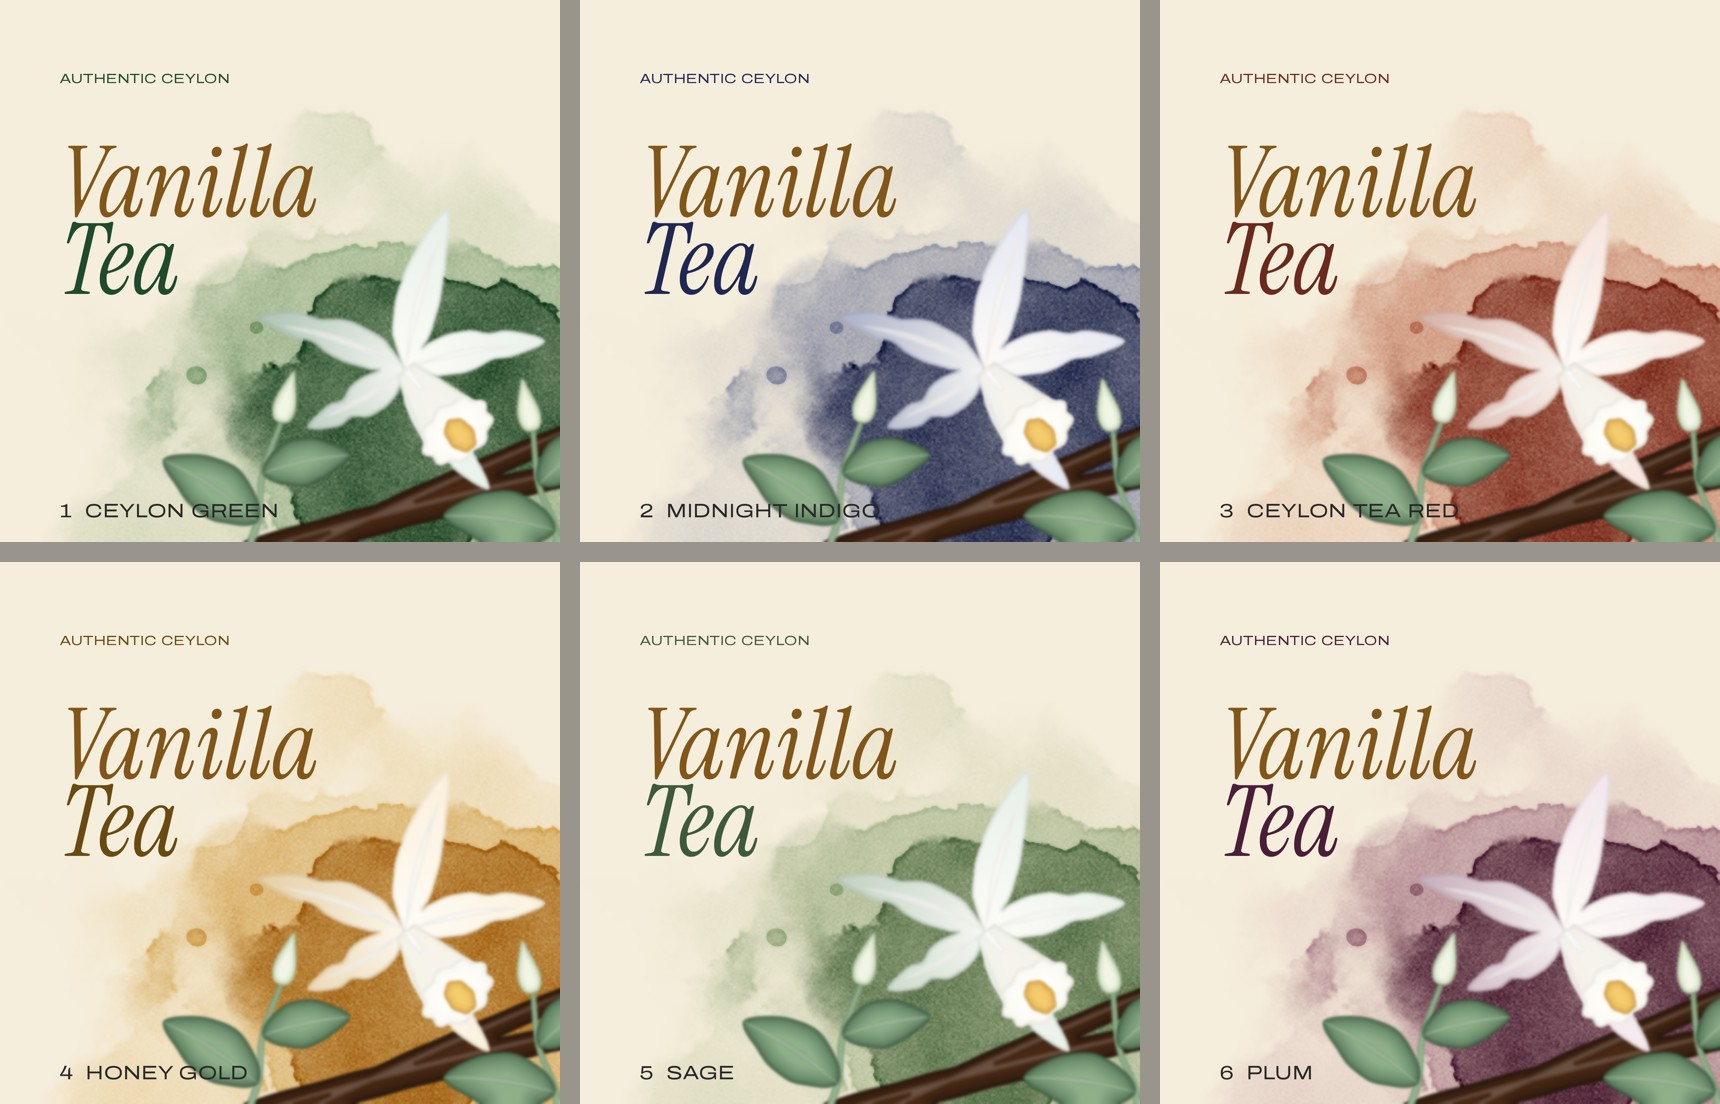
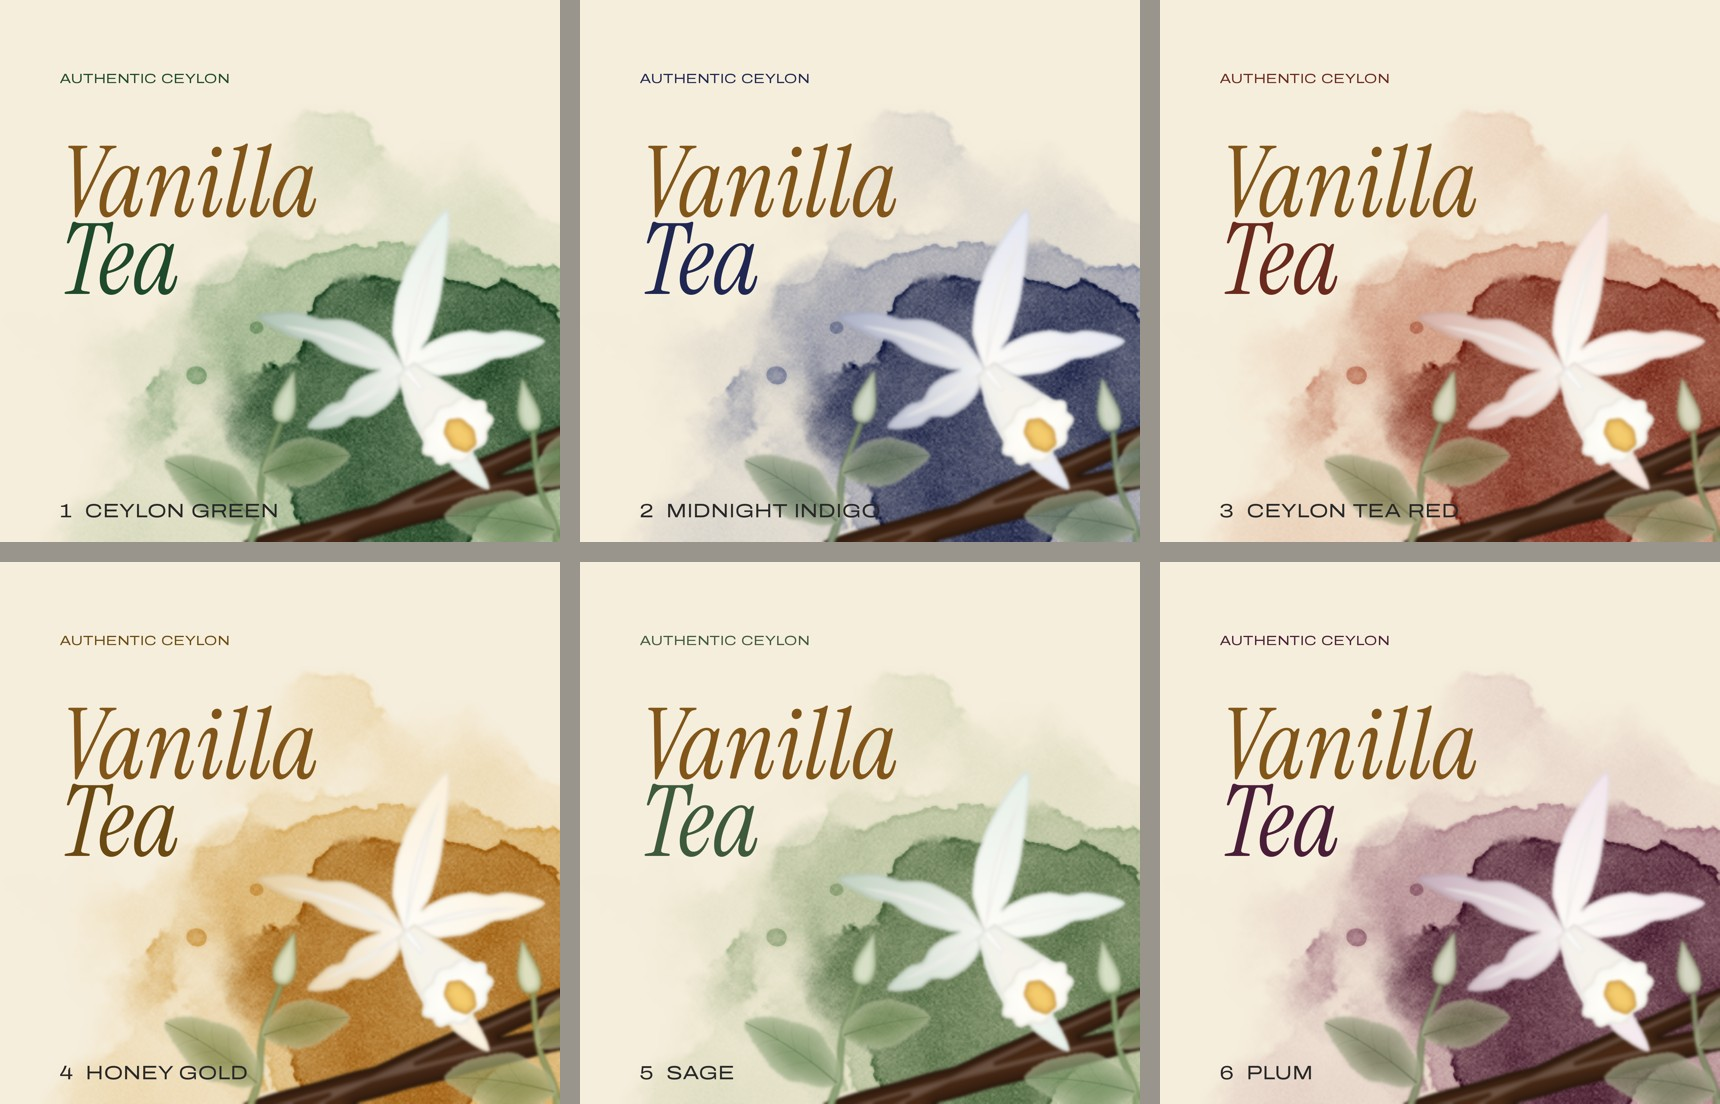
Tea carton: six colour options with softer leaves
Leaves now thin out to the margin like the petals, with no dark outline, an uneven second glaze and a softly serrated edge.

Claude-Session: https://claude.ai/code/session_01Psd6wLDi15Gf4F1fXEFmxS

diff --git a/vanilla-shop/studies/tea/watercolour/carton/split2.py b/vanilla-shop/studies/tea/watercolour/carton/split2.py
@@ -25,13 +25,41 @@ class WC(Canvas):
         if getattr(s,'crisp',False): blur=min(blur,getattr(s,'cap',0.08)); halo=0.0
         if wash is None: wash=() if getattr(s,'nowash',False) else (mix(edge,'#000000',0.18),0.32,0.32)
         super().add(polys,core,edge,blur,depth,alpha,glow,centre,R,halo,wash)
+def serrate(poly,w,seed,amt=1.0):
+    """a tea leaf's edge: fine forward-leaning teeth and a slightly wavy margin, not a perfect lens"""
+    P=np.asarray(poly,float); n=len(P); rng=np.random.default_rng(seed)
+    d=np.roll(P,-1,0)-np.roll(P,1,0); d/=np.linalg.norm(d,axis=1,keepdims=True)+1e-9; nrm=np.stack([d[:,1],-d[:,0]],1)
+    t=np.arange(n)/n; teeth=(np.mod(t*n/3.0,1.0)**2)*0.05*w
+    wave=np.convolve(rng.normal(0,1,n+8),np.ones(9)/9,'valid')[:n]*0.06*w
+    taper=np.minimum(1,np.minimum(t,1-t)*8)
+    return P+nrm*((teeth+wave)*taper*amt)[:,None]
 def flush(cv,p,base,ang,s,blur=0.7,alpha=1.0):
     a=math.radians(ang); P=lambda d,o=0:(base[0]+math.cos(a)*d*s-math.sin(a)*o*s, base[1]+math.sin(a)*d*s+math.cos(a)*o*s)
     tip=P(26); m1=P(9,0.8); m2=P(17,-0.6)
     cv.add([stem([base,m1,m2,tip],0.6*s)],mix(p['tstem'],'#FFFFFF',0.2),p['tstem'],blur*0.8,alpha=alpha)
     lv=[(m1,ang-62,19*s,5.6*s,-0.3),(m2,ang+52,15*s,4.6*s,0.28)]
-    cv.add([leaf(*q) for q in lv],p['tea_core'],p['tea_edge'],blur,alpha=alpha,glow=1.1)
-    sheen(cv,[leaf(*q,spine=True) for q in lv],0.38*s,mix(p['tea_core'],'#FFFFFF',0.4),p['tea_core'],blur,p.get('sheen',0.5)*alpha)
+    if p.get('veins'):
+        # painted like a real leaf: a flat wash with a darker drying edge, the tip a little warmer, a midrib and side veins
+        for i,q in enumerate(lv):
+            core=mix(p['tea_core'],p.get('tea_tip',p['tea_core']),0.35*i)
+            poly=serrate(leaf(*q),q[3],i)
+            # like the petals: pigment pools toward the midrib and thins out to the margin, no dark drying line
+            pap=p.get('paper','#F6EEDC')
+            cv.add([poly],core,mix(core,pap,0.55),blur*1.3,alpha=0.72*alpha,glow=1.2,wash=())
+            # a second, smaller glaze pooled on one side of the midrib: the pigment never sits evenly
+            q2=(q[0],q[1]+(4 if i else -4),q[2]*0.72,q[3]*0.55,q[4])
+            cv.add([serrate(leaf(*q2),q2[3],i+7,0.5)],mix(core,p['tea_edge'],0.3),mix(core,pap,0.4),blur*1.8,alpha=0.22*alpha,wash=())
+            sp=leaf(*q,spine=True); vc=mix(p['tea_edge'],p['tea_core'],0.45)
+            cv.add([draw.ribbon(sp[1:-2],lambda t,w=0.16*s:w*(1-0.6*t)+0.02)],vc,vc,0.08,alpha=0.4*alpha,wash=())
+            d=np.gradient(sp,axis=0); d/=np.linalg.norm(d,axis=1,keepdims=True)+1e-9; nrm=np.stack([-d[:,1],d[:,0]],1)
+            for k in (0.3,0.48,0.66):
+                j=int(k*(len(sp)-1)); L=q[3]*0.8*(1-k*0.6)
+                for sg in (1,-1):
+                    a0=sp[j]; a1=sp[j]+d[j]*L*0.9+nrm[j]*sg*L
+                    cv.add([draw.ribbon(draw.cr([a0,(a0+a1)/2+d[j]*0.4,a1],8),lambda t,w=0.07*s:w*(1-t)+0.015)],vc,vc,0.08,alpha=0.22*alpha,wash=())
+    else:
+        cv.add([leaf(*q) for q in lv],p['tea_core'],p['tea_edge'],blur,alpha=alpha,glow=1.1)
+        sheen(cv,[leaf(*q,spine=True) for q in lv],0.38*s,mix(p['tea_core'],'#FFFFFF',0.4),p['tea_core'],blur,p.get('sheen',0.5)*alpha)
     cv.add([bud(tip,ang-6,9*s,2.0*s,0.12)],p['tbud_core'],p['tbud_edge'],blur*0.8,alpha=alpha,glow=1.3)
 def pod_pair(cv,p,base,ang,L,w):
     """the range's pods: always two cured pods, crossing, the front one longer"""

diff --git a/vanilla-shop/studies/tea/watercolour/carton/palsheet.py b/vanilla-shop/studies/tea/watercolour/carton/palsheet.py
@@ -12,8 +12,11 @@ K=draw.K; B=3; PAPER=np.array([0xF6,0xEE,0xDC],np.float32)
 F='/home/user/PersonalEventPlanner305App/vanilla-shop/fonts/'
 f1=ImageFont.truetype(F+'instrument-serif-italic.ttf',int(16.5*K)); f2=ImageFont.truetype(F+'archivo-expanded-regular.ttf',int(2.2*K)); f3=ImageFont.truetype(F+'archivo-expanded-regular.ttf',int(3.2*K))
 def pal(ground,g1,g2,ink,leaf=('#8FB08A','#3E5E44'),tep='#E4EFE8'):
-    return dict(tep_core='#FFFDF8',lip_core='#FFFEF9',throat_core='#F3C75E',throat_edge='#D69B3A',pod_core='#4A2A16',pod_edge='#26150B',tbud_core='#F3F6E6',
-                ground=ground,tep_edge=tep,lip_edge='#F6F4EC',leaf_core=leaf[0],leaf_edge=leaf[1],tea_core=leaf[0],tea_edge=leaf[1],tbud_edge='#B5CBA6',tstem='#82A47C'),(g1,g2,ground),ink
+    # a natural tea-leaf green, tinted towards the palette so the leaves sit in the same light
+    lc=mix('#7C9663',ground,0.22); le=mix('#3E5530',ground,0.22); tip=mix('#9AA466',ground,0.2)
+    return dict(tep_core='#FFFDF8',lip_core='#FFFEF9',throat_core='#F3C75E',throat_edge='#D69B3A',pod_core='#4A2A16',pod_edge='#26150B',tbud_core=mix('#E4EBD2',ground,0.1),
+                ground=ground,tep_edge=tep,lip_edge='#F6F4EC',leaf_core=lc,leaf_edge=le,tea_core=lc,tea_edge=le,tea_tip=tip,veins=True,
+                tbud_edge=mix('#9DB083',ground,0.2),tstem=mix('#7E965E',ground,0.2)),(g1,g2,ground),ink
 OPTS=[('1  CEYLON GREEN',*pal('#2F5E3E','#D9E6D6','#9DBF9F','#1F4A2C')),          # brand tea deep green
       ('2  MIDNIGHT INDIGO',*pal('#2B3566','#DCDFEA','#9AA3C6','#1F2752',tep='#E2E5F2')),   # the Aura candle's blue
       ('3  CEYLON TEA RED',*pal('#8E3B2C','#F1DAD0','#D59A88','#6A2A1E',tep='#F6E2DA')),  # brewed black tea, extract red
@@ -33,7 +36,7 @@ for name,p,(g1,g2,g3),ink in OPTS:
     d.text((10*K,12*K),'AUTHENTIC CEYLON',font=f2,fill=ink)
     d.text((10*K,20*K),'Vanilla',font=f1,fill=(130,86,26)); d.text((10*K,33*K),'Tea',font=f1,fill=ink)
     d.text((10*K,84*K),name,font=f3,fill=(40,40,40))
-    im.thumbnail((560,560)); tiles.append(im)
+    im.crop((int(30*K),int(40*K),int(94*K),int(91*K))).save(f'leafcrop-{len(tiles)}.jpg',quality=92); im.thumbnail((560,560)); tiles.append(im)
 w,h=tiles[0].size; c=Image.new('RGB',(w*3+40,h*2+20),'#9a958c')
 for i,t in enumerate(tiles): c.paste(t,((i%3)*(w+20),(i//3)*(h+20)))
 c.save('/home/user/PersonalEventPlanner305App/vanilla-shop/studies/tea/watercolour/carton/colour-options.jpg',quality=90); print('ok')
